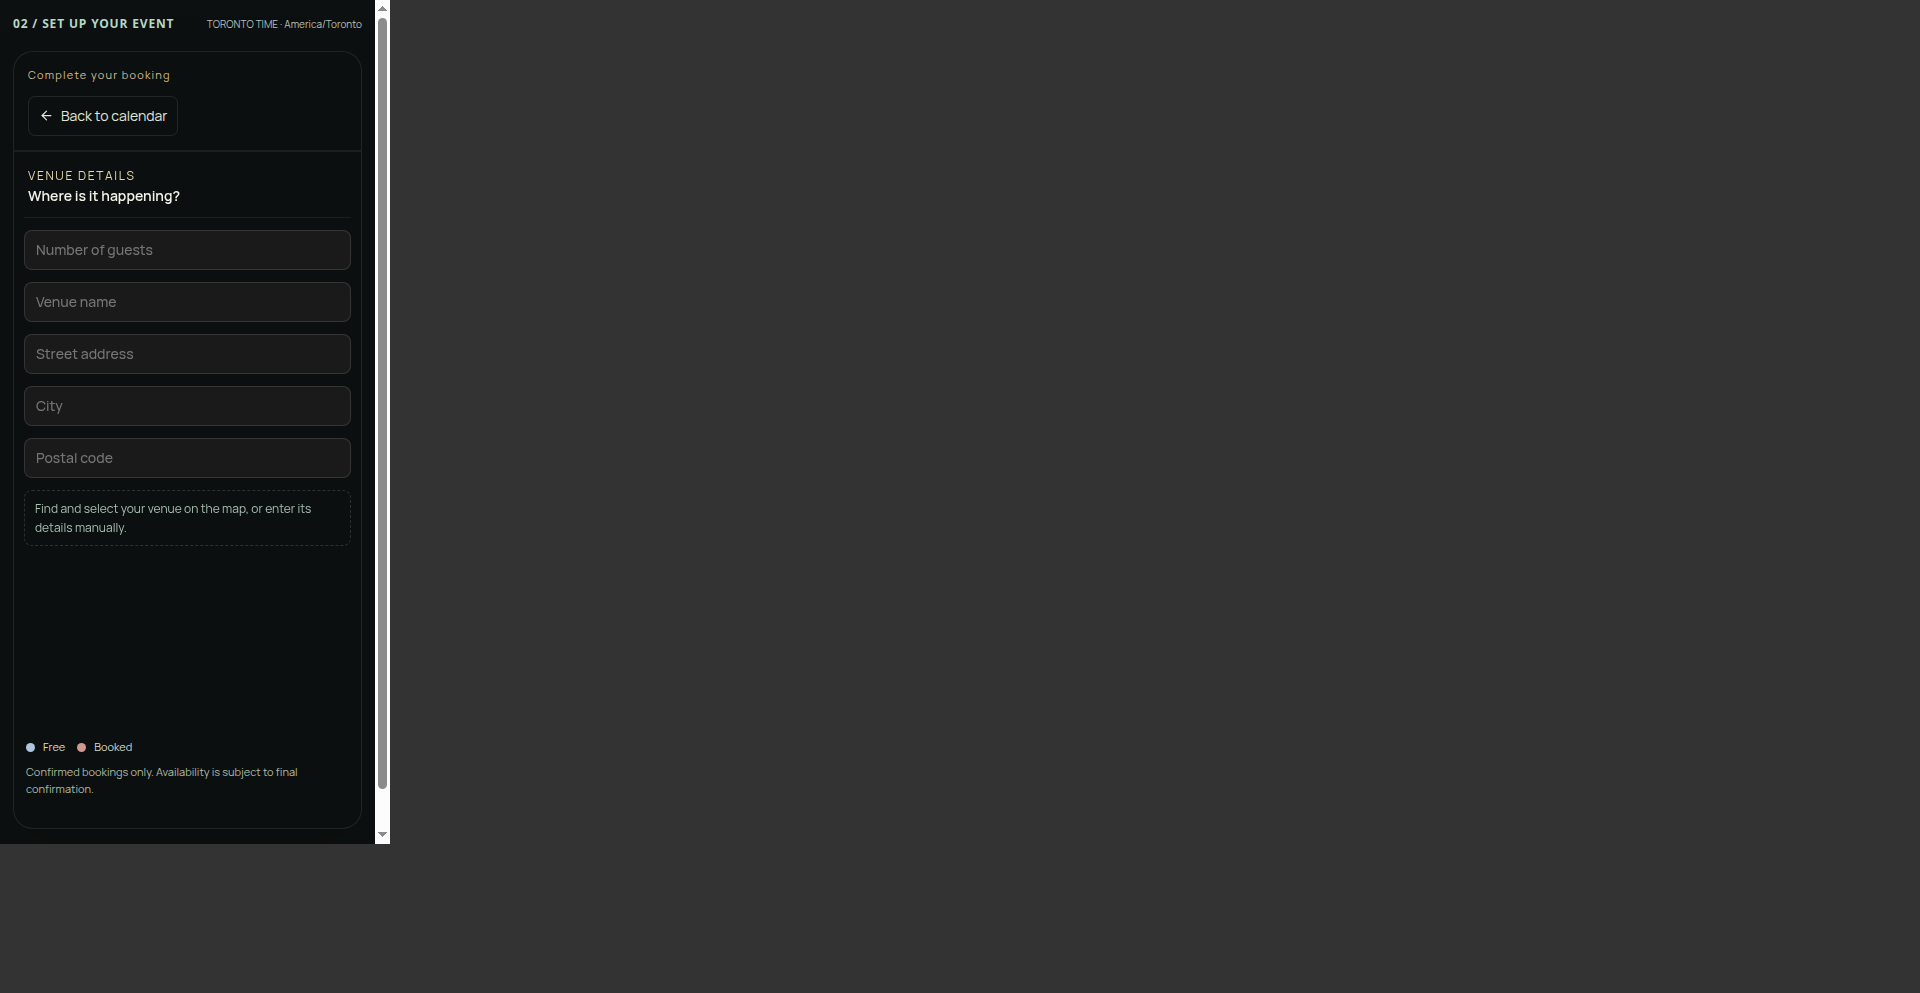
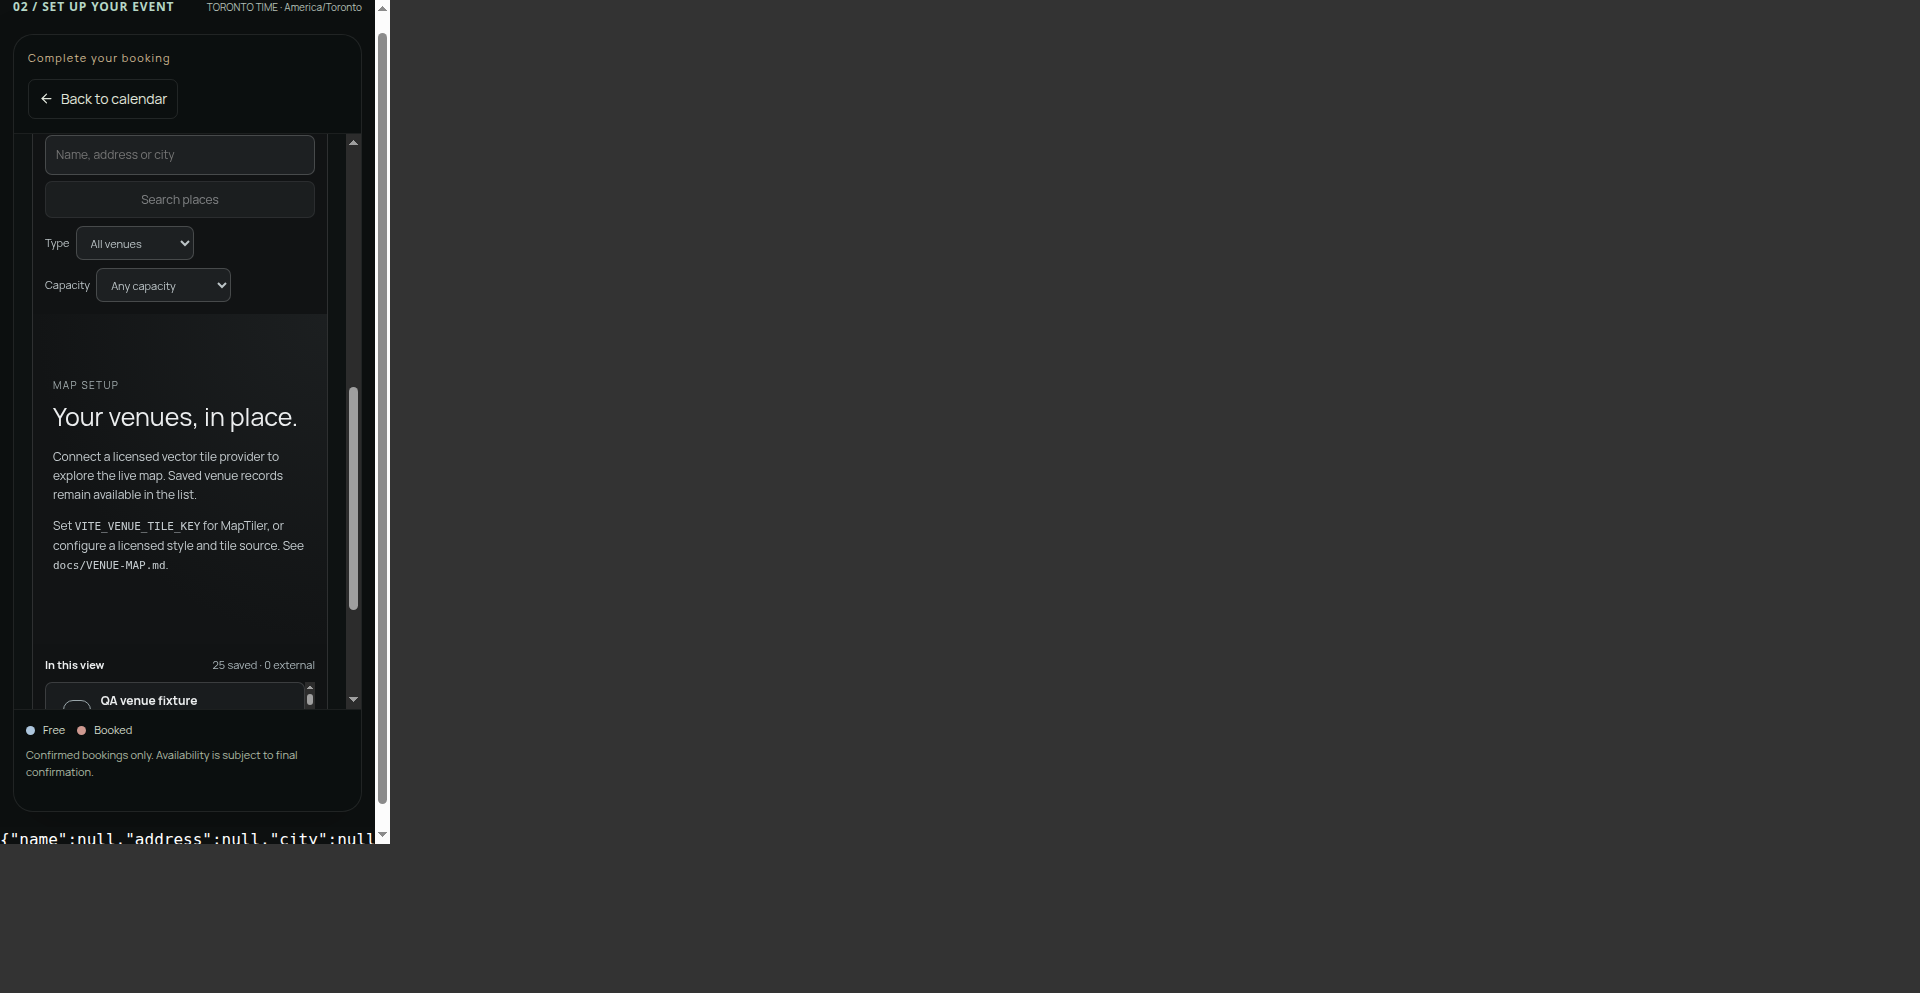
sdf

diff --git a/src/echo/VenueMap.jsx b/src/echo/VenueMap.jsx
@@ -1,6 +1,6 @@
 import {useEffect,useMemo,useRef,useState} from 'react';
 import {apiRequest} from '../lib/api';
-import {VENUE_TYPES,unknown,venueKey,editableVenue,filterExternal,emptyRoom} from './venueMapCore';
+import {VENUE_TYPES,venueTypeLabel,unknown,venueKey,editableVenue,filterExternal,emptyRoom} from './venueMapCore';
 import VenueMapCanvas from './VenueMapCanvas';
 import './venueMap.css';
 const READ='/venue-map',ADMIN='/admin/venue-map';
@@ -49,12 +49,12 @@ export default function VenueMap({token,isAdmin=false,ar=false,onChoose,active=t
  return <section ref={root} className="venue-map" dir={ar?'rtl':'ltr'} aria-label={tr('Find your venue','ابحث عن مكان الفعالية')} onKeyDown={e=>{if(e.key==='Escape'&&(draft||selected)){e.stopPropagation();close();}}}>
   <header className="vm-toolbar"><div><span className="vm-eyebrow">{tr('THE SETTING','المكان')}</span><h3>{tr('Find your venue','اختر مكان فعاليتك')}</h3></div>{isAdmin&&<button type="button" onClick={()=>edit({latitude:center[1],longitude:center[0],venueType:'other',source:'manual'})}>{tr('+ Add venue','+ إضافة مكان')}</button>}</header>
   <div className="vm-search"><input aria-label={tr('Search venue name, address or city','ابحث بالاسم أو العنوان أو المدينة')} placeholder={tr('Name, address or city','الاسم أو العنوان أو المدينة')} value={query} maxLength={160} onChange={e=>setQuery(e.target.value)} onKeyDown={e=>{if(e.key==='Enter'){e.preventDefault();search();}}}/><button type="button" disabled={!token||query.trim().length<3||searchBusy} onClick={search}>{searchBusy?tr('Searching…','جارٍ البحث…'):tr('Search places','ابحث عن أماكن')}</button></div>
-  <div className="vm-filters"><label>{tr('Type','النوع')}<select value={type} onChange={e=>setType(e.target.value)}><option value="">{tr('All venues','كل الأماكن')}</option>{Object.entries(VENUE_TYPES).map(([k,v])=><option key={k} value={k}>{v}</option>)}</select></label><label>{tr('Capacity','السعة')}<select value={capacity} onChange={e=>setCapacity(e.target.value)}><option value="">{tr('Any capacity','كل السعات')}</option><option value="known">{tr('Capacity available','السعة معروفة')}</option><option value="unknown">{tr('Unknown capacity','السعة غير معروفة')}</option></select></label></div>
+  <div className="vm-filters"><label>{tr('Type','النوع')}<select value={type} onChange={e=>setType(e.target.value)}><option value="">{tr('All venues','كل الأماكن')}</option>{Object.entries(VENUE_TYPES).map(([k])=><option key={k} value={k}>{venueTypeLabel(k,ar)}</option>)}</select></label><label>{tr('Capacity','السعة')}<select value={capacity} onChange={e=>setCapacity(e.target.value)}><option value="">{tr('Any capacity','كل السعات')}</option><option value="known">{tr('Capacity available','السعة معروفة')}</option><option value="unknown">{tr('Unknown capacity','السعة غير معروفة')}</option></select></label></div>
   <div className="vm-stage"><VenueMapCanvas items={items} selected={selected} draft={draft} picking={picking} onPick={([longitude,latitude])=>{setDraft(v=>v?{...v,longitude,latitude}:v);setPicking(false);}} onBounds={setBounds} onCenter={setCenter} onSelect={select}/>
    {(show||draft)&&<aside className="vm-details" aria-label={tr('Venue details','تفاصيل المكان')}><button type="button" className="vm-close" aria-label={tr('Close venue details','إغلاق التفاصيل')} onClick={close}>×</button>
     {draft?<VenueEditor key={editId||'new'} draft={draft} setDraft={setDraft} token={token} busy={busy} picking={picking} onPick={()=>setPicking(v=>!v)} onSave={save} ar={ar}/>:<>
-     <span className="vm-badge">{show.saved?tr('Echo saved venue','مكان محفوظ لدى Echo'):tr('External search result','نتيجة بحث خارجية')}</span><h3>{show.name}</h3><p>{show.address}</p><p>{VENUE_TYPES[show.venueType]} · {show.verificationStatus==='verified'?tr('Verified','موثّق'):tr('Unverified','غير موثّق')}</p>{show.lastVerifiedAt&&<small>{tr('Last verified: ','آخر تحقق: ')}{new Date(show.lastVerifiedAt).toLocaleDateString(ar?'ar-CA':'en-CA')}</small>}
-     <p className="vm-coordinates">{show.latitude.toFixed(5)}, {show.longitude.toFixed(5)}</p><h4>{tr('Rooms & spaces','القاعات والمساحات')}</h4>{!(show.rooms||[]).length?<p>{tr('Capacity: Unknown · Area: Unknown','السعة: غير معروفة · المساحة: غير معروفة')}</p>:show.rooms.map((r,i)=><article className="vm-room" key={i}><strong>{r.name}</strong><dl><dt>{tr('Seated','جلوس')}</dt><dd>{unknown(r.seatedCapacity)}</dd><dt>{tr('Standing','وقوف')}</dt><dd>{unknown(r.standingCapacity)}</dd><dt>{tr('Interior area','المساحة الداخلية')}</dt><dd>{unknown(r.areaSqM,' m²')}</dd></dl>{r.layoutNotes&&<p>{r.layoutNotes}</p>}{r.capacitySource&&<small>{tr('Capacity source: ','مصدر السعة: ')}{r.capacitySource}</small>}{r.areaSource&&<small>{r.areaMethod} · {r.areaSource}</small>}</article>)}
+     <span className="vm-badge">{show.saved?tr('Echo saved venue','مكان محفوظ لدى Echo'):tr('External search result','نتيجة بحث خارجية')}</span><h3>{show.name}</h3><p>{show.address}</p><p>{venueTypeLabel(show.venueType,ar)} · {show.verificationStatus==='verified'?tr('Verified','موثّق'):tr('Unverified','غير موثّق')}</p>{show.lastVerifiedAt&&<small>{tr('Last verified: ','آخر تحقق: ')}{new Date(show.lastVerifiedAt).toLocaleDateString(ar?'ar-CA':'en-CA')}</small>}
+     <p className="vm-coordinates">{show.latitude.toFixed(5)}, {show.longitude.toFixed(5)}</p><h4>{tr('Rooms & spaces','القاعات والمساحات')}</h4>{!(show.rooms||[]).length?<p>{tr('Capacity: Unknown · Area: Unknown','السعة: غير معروفة · المساحة: غير معروفة')}</p>:show.rooms.map((r,i)=><article className="vm-room" key={i}><strong>{r.name}</strong><dl><dt>{tr('Seated','جلوس')}</dt><dd>{r.seatedCapacity==null?tr('Unknown','غير معروفة'):unknown(r.seatedCapacity)}</dd><dt>{tr('Standing','وقوف')}</dt><dd>{r.standingCapacity==null?tr('Unknown','غير معروفة'):unknown(r.standingCapacity)}</dd><dt>{tr('Interior area','المساحة الداخلية')}</dt><dd>{r.areaSqM==null?tr('Unknown','غير معروفة'):unknown(r.areaSqM,ar?' م²':' m²')}</dd></dl>{r.layoutNotes&&<p>{r.layoutNotes}</p>}{r.capacitySource&&<small>{tr('Capacity source: ','مصدر السعة: ')}{r.capacitySource}</small>}{r.areaSource&&<small>{r.areaMethod} · {r.areaSource}</small>}</article>)}
      {show.saved&&<><h4>{isAdmin?tr('Associated events','الفعاليات المرتبطة'):tr('Your associated events','فعالياتك المرتبطة')}</h4>{detailBusy?<p role="status">{tr('Loading details…','جارٍ التحميل…')}</p>:events.length?events.map(ev=><p key={ev.kind+ev.id}>{ev.label}</p>):<p>{tr('No associated events.','لا توجد فعاليات مرتبطة.')}</p>}</>}
      {show.sourceAttribution&&<p className="vm-source">{show.sourceAttribution}</p>}
      {onChoose&&<button type="button" className="vm-primary" disabled={detailBusy} onClick={()=>onChoose(show)}>{tr('Use this venue','استخدم هذا المكان')}</button>}{isAdmin&&<button type="button" disabled={detailBusy} onClick={()=>edit(show)}>{show.saved?tr('Edit venue','تعديل المكان'):tr('Save to Echo directory','حفظ في دليل Echo')}</button>}
@@ -73,7 +73,7 @@ function VenueEditor({draft,setDraft,token,busy,picking,onPick,onSave,ar}){
  const update=(key,value)=>setDraft(v=>({...v,[key]:value}));
  const field=(key,label,type='text',required=false)=> type==='number'?<CoordinateField key={key} label={label} value={draft[key]} onChange={value=>update(key,value)}/>:<label key={key}>{label}<input type={type} value={draft[key]??''} required={required} maxLength={key==='address'?500:240} step={type==='number'?'any':undefined} onChange={e=>update(key,type==='number'?Number(e.target.value):e.target.value)}/></label>;
  const updateRoom=(i,key,value)=>setDraft(v=>({...v,rooms:v.rooms.map((r,j)=>i===j?{...r,[key]:value}:r)}));
- return <form className="vm-editor" onSubmit={onSave}><h3>{tr('Venue record','سجل المكان')}</h3>{field('name',tr('Name','الاسم'),'text',true)}{field('address',tr('Address','العنوان'),'text',true)}{field('city',tr('City','المدينة'))}{field('postalCode',tr('Postal code','الرمز البريدي'))}{field('country',tr('Country','الدولة'))}<label>{tr('Venue type','نوع المكان')}<select value={draft.venueType} onChange={e=>update('venueType',e.target.value)}>{Object.entries(VENUE_TYPES).map(([k,v])=><option key={k} value={k}>{v}</option>)}</select></label>
+ return <form className="vm-editor" onSubmit={onSave}><h3>{tr('Venue record','سجل المكان')}</h3>{field('name',tr('Name','الاسم'),'text',true)}{field('address',tr('Address','العنوان'),'text',true)}{field('city',tr('City','المدينة'))}{field('postalCode',tr('Postal code','الرمز البريدي'))}{field('country',tr('Country','الدولة'))}<label>{tr('Venue type','نوع المكان')}<select value={draft.venueType} onChange={e=>update('venueType',e.target.value)}>{Object.entries(VENUE_TYPES).map(([k])=><option key={k} value={k}>{venueTypeLabel(k,ar)}</option>)}</select></label>
   <button type="button" aria-pressed={picking} onClick={onPick}>{picking?tr('Cancel pin placement','إلغاء تحديد المكان'):tr('Place pin on map','حدد المكان على الخريطة')}</button><small>{tr('Drag the + pin or enter exact coordinates.','اسحب العلامة + أو أدخل الإحداثيات.')}</small>{field('latitude',tr('Latitude','خط العرض'),'number',true)}{field('longitude',tr('Longitude','خط الطول'),'number',true)}
   <label><input type="checkbox" checked={draft.verificationStatus==='verified'} onChange={e=>setDraft(v=>({...v,verificationStatus:e.target.checked?'verified':'unverified',lastVerifiedAt:e.target.checked?new Date().toISOString():null}))}/>{tr('I verified this venue and location','تحققت من هذا المكان وموقعه')}</label>
   <h4>{tr('Rooms & spaces','القاعات والمساحات')}</h4><p>{tr('Leave missing measurements blank. Enter only sourced interior areas.','اترك القياسات غير المتوفرة فارغة. أدخل مساحة داخلية بمصدر موثوق فقط.')}</p>

diff --git a/src/echo/venueMapCore.js b/src/echo/venueMapCore.js
@@ -1,5 +1,6 @@
 export const GTA_CAMERA = {center:[-79.3832,43.72],zoom:9.5,bearing:0,pitch:0};
 export const VENUE_TYPES = {restaurant:'Restaurant',banquet_hall:'Banquet hall',outdoor:'Outdoor venue',other:'Other venue'};
+export function venueTypeLabel(key,ar=false){return ar?({restaurant:'مطعم',banquet_hall:'قاعة حفلات',outdoor:'مكان خارجي',other:'مكان آخر'})[key]:VENUE_TYPES[key];}
 export function unknown(value,unit=''){return value === null || value === undefined || value === '' ? 'Unknown' : `${value}${unit}`;}
 export function venueKey(v){return v.saved?v.id:`external:${v.sourceId}`;}
 export function venueFeatures(items){return {type:'FeatureCollection',features:items.map(v=>({type:'Feature',id:venueKey(v),geometry:{type:'Point',coordinates:[v.longitude,v.latitude]},properties:{id:venueKey(v),type:v.venueType,saved:!!v.saved,name:v.name}}))};}

diff --git a/docs/venue-map-verification/README.md b/docs/venue-map-verification/README.md
@@ -1,0 +1,32 @@
+# Venue map verification — 2026-10-31
+
+Implemented for the **browser** app's **Complete your booking** section. No Android feature edits remain. No deployment, production migration, real booking/payment/email action, account purchase, or live provider credential configuration was performed.
+
+## Passing checks
+
+- `npm test`: 56/56 pass, including the 3 new venue-map tests.
+- `node --test src/echo/venueMapCore.test.js`: 3/3 new checks: nullable measurements, distinct source identities, valid editable MapLibre style, provider URL overrides, and preservation of signed precise coordinates/venue ID through booking normalization.
+- `npm run lint`: no errors; existing application warnings remain. New production map files introduce no warnings.
+- `npm run build`: succeeds; map, bundled MapLibre worker and supporting CSS are separate lazy assets. Existing large-bundle warnings remain.
+- Backend `node --test test/venue-map.integration.test.js src/event-drafts.test.js`: 13/13 pass. Uses an isolated temporary real MongoDB, existing authentication guards, and test-only users/records. Tests actual geospatial queries, additive migration run twice, null rooms, admin creation/editing, optimistic conflicts, denied customer writes, existing-event links, customer event ownership, missing search credentials, bounded Geoapify fixture response, rate limits and rejection of forged saved-venue coordinates before any booking/notification write.
+- Node syntax and Git whitespace checks pass for the changed code.
+
+## Browser checks
+
+Used the [browser-act skill](/home/rudy/.codex/plugins/cache/openai-curated-remote/browser-act/0.1.6/skills/browser-act/SKILL.md), a temporary local harness mounting the **actual HomeAvailability, VenueMap and VenueMapCanvas components**, and conspicuously labeled QA fixtures. The temporary HTML/JSX/style files were removed after checks.
+
+- Actual Complete your booking placement; selecting a saved fixture and pressing “Use this venue” populated name/address/city/postal/country and canonical saved ID, latitude 43.6532, longitude -79.3832, source.
+- Desktop side panel showed nullable capacities/area as Unknown.
+- Administrator form accepted creation details, map pin placement and existing-event linking; captured test request preserved the selected coordinates and event reference. Database-backed authorization/persistence tested separately above.
+- Actual MapLibre worker initialized successfully: 25 nearby test points formed one rendered cluster; cluster activation expanded zoom and split into smaller clusters. Vite's documented `?worker&url` setup is included to prevent a runtime worker failure that a build alone would miss.
+- Navigation/rotation/reset-north controls and session camera persistence checked.
+- Location call count was zero before pressing My location; a denied-location callback produced the explicit message while retaining the venue map/source.
+- 390px nested mobile viewport: map and booking panel displayed, page scrollWidth stayed within the viewport; existing CSS hiding the review panel was overridden only for the new booking map panel. Mobile details use a bottom sheet.
+
+`runtime-fixture.png` intentionally has **no geographic basemap**: the temporary source-free QA style exercises rendering, clustering and controls without borrowing a production credential or presenting fabricated geography. Production uses the real editable vector style; actual licensed tiles/glyph delivery, provider quota/account settings and real Geoapify search remain unverified until the owner supplies credentials. The fixture style is not shipped. Screenshots show test data, never production venue claims.
+
+## Existing failures outside this feature
+
+The separate `src/echo/eventOrder.test.js` file has four failing assertions for older labels/navigation/retired home markup. Repeating it with the pre-map QuotePage behavior produced the same four failures. The configured `npm test` suite passes (56 tests).
+
+Extended backend event-order tests have one pre-existing failure: frontend and backend core helper files differ because the frontend already exports `voiceGreetingText`, while the backend does not. Git HEAD comparison confirms this mismatch predates these edits. The JSON contract is synchronized; the coordinate-validation addition is identical on both sides. The questionnaire assertion now correctly excludes hidden optional map metadata and passes. No unrelated helper/UI changes were made to force these baseline checks green.
